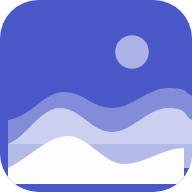
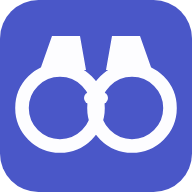
0.17.0: flat surfaces, a shape scale, and binoculars
Material 3 Expressive, taken from its own terms: shape is an expressive
element, round and square mixed for tension, and a surface defined by tone
rather than by an outline or a shadow.

- Cards are filled, not outlined. No border, no shadow; --surf is one tonal
  step up from the page, which is what makes a borderless card read as
  raised. An outline and a drop shadow are both ways of faking a separation
  that colour does better.
- A shape scale replaces the single radius: 8/12/16/22/28 plus full. Metric
  cards take the largest corner, app tiles a middle one, chips and buttons
  go fully round. The two card groups are now told apart by shape, which
  they have to be once nothing is outlined.
- The mark is binoculars. A lookout rather than a landscape, and the only
  candidate that still reads as itself at 24px, which is where it spends
  most of its life. Dropped: a magnifier (says search, and this searches
  nothing) and a lone eye (says surveillance). Icons regenerated at
  32/180/192/512 and maskable; the maskable is inset 10% because the eyecups
  reach the edge and a circular mask would clip them.

Two corrections found by looking at the result:

- The trend line was drawn flush to the card edge, so a 28px corner clipped
  both ends and it read as a rendering fault. Inset to clear the radius.
- Dark mode had the same chroma numbers as light and came out as plain
  charcoal. Chroma is far less visible at low lightness, so the dark scheme
[…]

diff --git a/app/server.py b/app/server.py
@@ -12,7 +12,7 @@ import urllib.parse
 import urllib.request
 from http.server import BaseHTTPRequestHandler, ThreadingHTTPServer
 
-APP_VERSION = "0.16.0"
+APP_VERSION = "0.17.0"
 APP_NAME = "Overlook"
 PORT = int(os.environ.get("DASH_PORT", "8080"))
 DATA = os.environ.get("DASH_DATA", "/data")
@@ -1263,18 +1263,23 @@ PAGE = """<!doctype html>
 <style>
   :root{
     color-scheme:light dark;
-    --bg:#f5f6f8; --panel:#ffffff; --brd:rgba(16,20,28,.09);
+    --bg:#eaeeff; --panel:#ffffff; --surf:#fbfcff; --brd:rgba(16,20,28,.09);
     --ink:#0f1218; --muted:#6a7280; --faint:rgba(16,20,28,.06);
     --ok:#1fa971; --warn:#e0a32e; --bad:#e0443a;
     --accent:#2f6df6; --brand:#0d9488;
     --shadow:0 1px 2px rgba(16,20,28,.04), 0 12px 30px -14px rgba(16,20,28,.20);
-    --r:18px;
+    /* M3's shape scale rather than one radius everywhere. Mixing round and
+       square is the point: uniform corners read as a template, varied ones
+       read as a designed thing. */
+    --r-xs:8px; --r-sm:12px; --r-md:16px; --r-lg:22px; --r-xl:28px;
+    --r-full:999px;
+    --r:var(--r-xl);
   }
   /* dark palette twice: once for "follow the system" (suppressed when the user
      has explicitly chosen light), once for an explicit dark choice */
   @media (prefers-color-scheme:dark){
     :root:not([data-theme="light"]){
-      --bg:#0a0c10; --panel:#171b22; --brd:rgba(255,255,255,.09);
+      --bg:#0f111b; --panel:#171b22; --surf:#1b1e2b; --brd:rgba(255,255,255,.09);
       --ink:#eef1f5; --muted:#949cab; --faint:rgba(255,255,255,.06);
       --ok:#34d399; --warn:#fbbf24; --bad:#f87171;
       --accent:#5b8cff; --brand:#14b8a6;
@@ -1283,7 +1288,7 @@ PAGE = """<!doctype html>
     }
   }
   :root[data-theme="dark"]{
-      --bg:#0a0c10; --panel:#171b22; --brd:rgba(255,255,255,.09);
+      --bg:#0f111b; --panel:#171b22; --surf:#1b1e2b; --brd:rgba(255,255,255,.09);
       --ink:#eef1f5; --muted:#949cab; --faint:rgba(255,255,255,.06);
       --ok:#34d399; --warn:#fbbf24; --bad:#f87171;
       --accent:#5b8cff; --brand:#14b8a6;
@@ -1322,7 +1327,7 @@ PAGE = """<!doctype html>
         box-shadow:0 4px 12px -5px var(--brand)}
 
   .hdr-r{display:flex;align-items:center;gap:8px;justify-content:flex-end}
-  .wx{display:inline-flex;align-items:center;gap:8px;padding:6px 12px;border-radius:999px;
+  .wx{display:inline-flex;align-items:center;gap:8px;padding:8px 15px;border-radius:var(--r-full);
       background:var(--faint);border:1px solid var(--brd);font-size:12.5px;font-weight:600;
       color:var(--ink);font-family:inherit;cursor:pointer;
       transition:border-color .15s ease,transform .15s ease}
@@ -1333,7 +1338,7 @@ PAGE = """<!doctype html>
   /* the condition words are the first thing to go when it gets tight */
   @media (max-width:480px){.wx .c{display:none}}
   .ibtn{width:34px;height:34px;flex:0 0 auto;display:inline-flex;align-items:center;
-        justify-content:center;border-radius:10px;background:var(--faint);
+        justify-content:center;border-radius:var(--r-full);background:var(--faint);
         border:1px solid var(--brd);color:var(--muted);text-decoration:none;
         transition:color .15s ease,border-color .15s ease,transform .15s ease}
   .ibtn:hover{color:var(--ink);border-color:var(--muted);transform:translateY(-1px)}
@@ -1491,9 +1496,9 @@ PAGE = """<!doctype html>
            background:var(--panel);border:1px solid var(--brd);border-radius:14px;
            font-size:13px;font-weight:600;box-shadow:var(--shadow)}
   body.editing .editbar{display:flex}
-  .editbar .done{margin-left:auto;padding:7px 14px;border-radius:9px;border:none;
+  .editbar .done{margin-left:auto;padding:9px 18px;border-radius:var(--r-full);border:none;
                  background:var(--brand);color:#fff;font:inherit;font-weight:700;cursor:pointer}
-  .editbar .rst{padding:7px 12px;border-radius:9px;border:1px solid var(--brd);
+  .editbar .rst{padding:9px 16px;border-radius:var(--r-full);border:1px solid var(--brd);
                 background:none;color:var(--muted);font:inherit;font-weight:600;cursor:pointer}
 
 
@@ -1527,7 +1532,11 @@ PAGE = """<!doctype html>
   /* the container has a fixed height, so a taller chart drew straight out
      through the bottom of the card. Give it the room it is asking for. */
   .cardwrap[data-w="4"] .spark{margin-top:14px;height:132px}
-  .card .sparkwrap{margin-top:auto;padding-top:10px;padding-bottom:1px}
+  /* A 28px corner cuts the ends off anything drawn to the card's edge, so
+     the trend line is inset far enough to clear it. Looked like a rendering
+     fault at the old flush position. */
+  .card .sparkwrap{margin-top:auto;padding-top:10px;padding-bottom:4px;
+                   margin-left:-4px;margin-right:-4px}
   .cardwrap[data-w="2"] .card{min-height:168px}
 
 
@@ -1599,15 +1608,19 @@ PAGE = """<!doctype html>
   .grid{display:grid;gap:9px;grid-template-columns:repeat(auto-fill,minmax(168px,1fr));
         grid-auto-rows:minmax(84px,auto)}
 
-  .card{position:relative;background:var(--panel);border:1px solid var(--brd);
-        border-radius:var(--r);padding:11px 12px;
-        min-height:84px;display:flex;flex-direction:column;align-items:stretch}
+  /* Filled, not outlined. In M3 a surface is defined by its tone; a border
+     and a drop shadow are both ways of faking separation that colour does
+     better. --surf is a tonal step up from the page, so the card reads as
+     raised without anything being drawn around it. */
+  .card{position:relative;background:var(--surf);border:none;
+        border-radius:var(--r-xl);padding:14px 15px;
+        min-height:92px;display:flex;flex-direction:column;align-items:stretch}
   button.card{width:100%;text-align:left;font:inherit;color:inherit;
               cursor:pointer;appearance:none;
               transition:transform .15s ease, border-color .15s ease}
   /* The alarm is the card, not the digit. A red number inside an identical
      white box does not read as "this one needs you". */
-  .cardwrap[data-state="warn"] .card{border-color:color-mix(in srgb,var(--warn) 45%,var(--brd));
+  .cardwrap[data-state="warn"] .card{
     background:color-mix(in srgb,var(--warn) 6%,var(--panel))}
   .cardwrap[data-state="bad"] .card{border-color:color-mix(in srgb,var(--bad) 50%,var(--brd));
     background:color-mix(in srgb,var(--bad) 7%,var(--panel))}
@@ -1752,7 +1765,7 @@ PAGE = """<!doctype html>
   .smart.ok{color:var(--ok);background:color-mix(in srgb,var(--ok) 15%,transparent)}
   .smart.bad{color:var(--bad);background:color-mix(in srgb,var(--bad) 18%,transparent)}
   .smart.unk{color:var(--muted);background:var(--faint)}
-  .ubtn{flex:1;appearance:none;border:1px solid var(--brd);border-radius:12px;padding:12px 0;
+  .ubtn{flex:1;appearance:none;border:1px solid var(--brd);border-radius:var(--r-full);padding:13px 0;
         font:inherit;font-weight:650;font-size:14px;cursor:pointer}
   .ubtn.no{background:var(--faint);color:var(--ink)}
   .ubtn.yes{background:var(--warn);color:#2a1c00;border-color:transparent}
@@ -1760,9 +1773,11 @@ PAGE = """<!doctype html>
 
   .appgrid{display:grid;grid-template-columns:repeat(auto-fill,minmax(134px,1fr));gap:9px}
   .sheet .appgrid{padding:12px 16px 14px}
+  /* Deliberately a smaller corner than the metric cards above them: the
+     shape is what separates the two groups now that nothing is outlined. */
   .apptile{position:relative;text-decoration:none;color:inherit;display:flex;
-           flex-direction:column;gap:6px;background:var(--panel);
-           border:1px solid var(--brd);border-radius:var(--r);
+           flex-direction:column;gap:6px;background:var(--surf);
+           border:none;border-radius:var(--r-md);
            padding:11px 12px;min-height:84px;transition:border-color .15s ease}
   .apptile:hover{border-color:color-mix(in srgb,var(--accent) 40%,var(--brd))}
   .apptile .sdot{position:absolute;top:13px;right:12px;width:6px;height:6px;
@@ -1819,17 +1834,17 @@ PAGE = """<!doctype html>
 <div class="wrap">
   <header>
     <div class="id">
-      <!-- Ridgelines receding, with the sun behind. Three fills at different
-           opacities rather than one stroke: the depth is the point, and it is
-           what survives being shrunk to a 16px favicon. -->
+      <!-- Binoculars. A lookout, not a landscape and not a search box: the
+           twin circles are the only shape here that still reads as itself at
+           24px, which is the size it spends most of its life at. -->
       <svg class="mark" viewBox="0 0 48 48" role="img" aria-label="Overlook">
         <rect width="48" height="48" rx="12" fill="var(--brand)"/>
-        <g fill="#fff">
-          <circle cx="33" cy="13" r="4.2" opacity=".55"/>
-          <path d="M2 30c6-1 9-7 14-7s7 4 12 4 9-5 14-5 4 1 6 2v12H2V30Z" opacity=".32"/>
-          <path d="M2 36c5-2 8-9 13-9s8 6 13 6 9-6 14-6 4 2 6 3v12H2v-6Z" opacity=".6"/>
-          <path d="M2 42c6-3 10-8 15-8s9 7 14 7 10-4 15-4v9H2v-4Z"/>
+        <g stroke="#fbfcff" fill="none">
+          <circle cx="15" cy="27" r="9.5" stroke-width="3.4"/>
+          <circle cx="33" cy="27" r="9.5" stroke-width="3.4"/>
+          <path d="M22.5 24.5h3" stroke-width="3" stroke-linecap="round"/>
         </g>
+        <path d="M10 17.5 13 9h7l1.5 8.5M38 17.5 35 9h-7l-1.5 8.5" fill="#fbfcff"/>
       </svg>
       <div style="min-width:0"><h1>Overlook<span class="host" id="host"></span></h1>
         <p class="beta">beta</p></div>
@@ -2307,12 +2322,18 @@ function applySurfaces(brandHex, dark){
   const k=Math.max(0.3, Math.min(1, src.C/0.13));
   const C=(x)=>x*k;
   if(dark){
-    r.setProperty('--bg',    tone(src, 0.180, C(0.022)));
-    r.setProperty('--panel', tone(src, 0.255, C(0.028)));
-    r.setProperty('--faint', tone(src, 0.315, C(0.034)));
-    r.setProperty('--brd',   tone(src, 0.350, C(0.040)));
-    r.setProperty('--muted', tone(src, 0.690, C(0.034)));
-    r.setProperty('--ink',   tone(src, 0.950, C(0.016)));
+    // Chroma is far less visible at low lightness than at high, so the dark
+    // scheme needs roughly double the number to read as the same colour.
+    // Matching the light values left dark mode looking like plain charcoal.
+    r.setProperty('--bg',    tone(src, 0.182, C(0.045)));
+    r.setProperty('--panel', tone(src, 0.258, C(0.052)));
+    r.setProperty('--faint', tone(src, 0.318, C(0.058)));
+    r.setProperty('--brd',   tone(src, 0.352, C(0.066)));
+    r.setProperty('--muted', tone(src, 0.690, C(0.050)));
+    r.setProperty('--ink',   tone(src, 0.950, C(0.022)));
+    // the card surface: one tonal step up from the page, which is what makes
+    // a borderless card read as raised
+    r.setProperty('--surf',  tone(src, 0.262, C(0.055)));
   }else{
     r.setProperty('--bg',    tone(src, 0.952, C(0.024)));
     r.setProperty('--panel', tone(src, 0.994, C(0.008)));
@@ -2320,6 +2341,7 @@ function applySurfaces(brandHex, dark){
     r.setProperty('--brd',   tone(src, 0.872, C(0.038)));
     r.setProperty('--muted', tone(src, 0.522, C(0.040)));
     r.setProperty('--ink',   tone(src, 0.192, C(0.038)));
+    r.setProperty('--surf',  tone(src, 0.988, C(0.014)));
   }
   // the accent itself keeps all of its chroma
   r.setProperty('--accent', brandHex);
